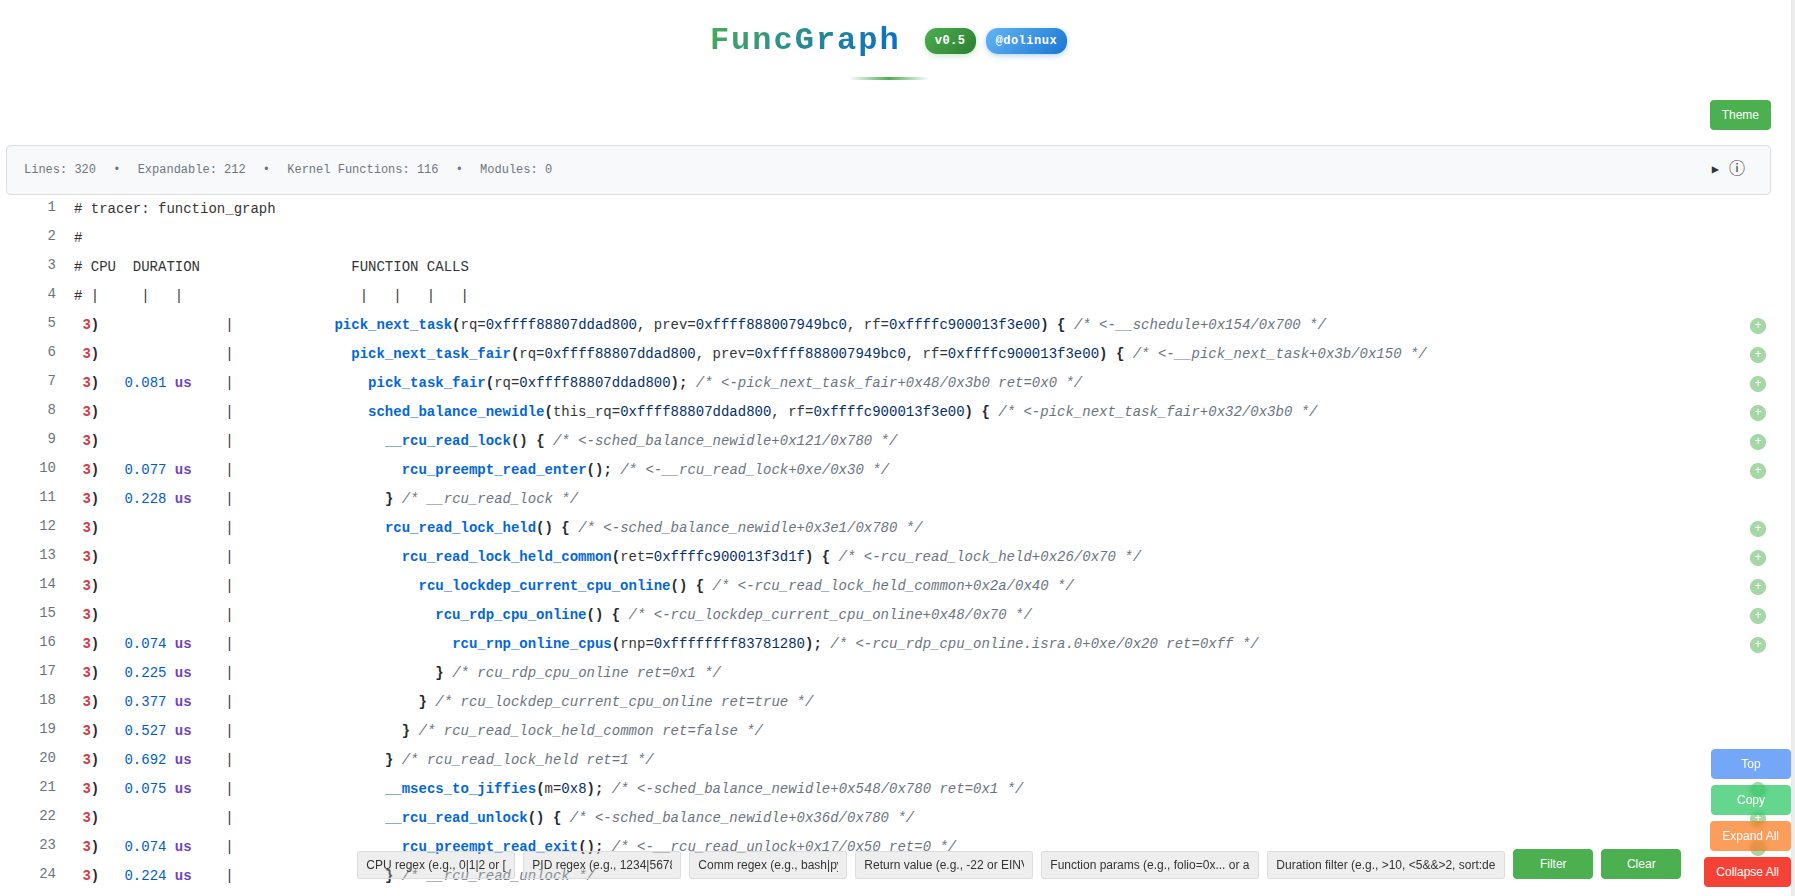
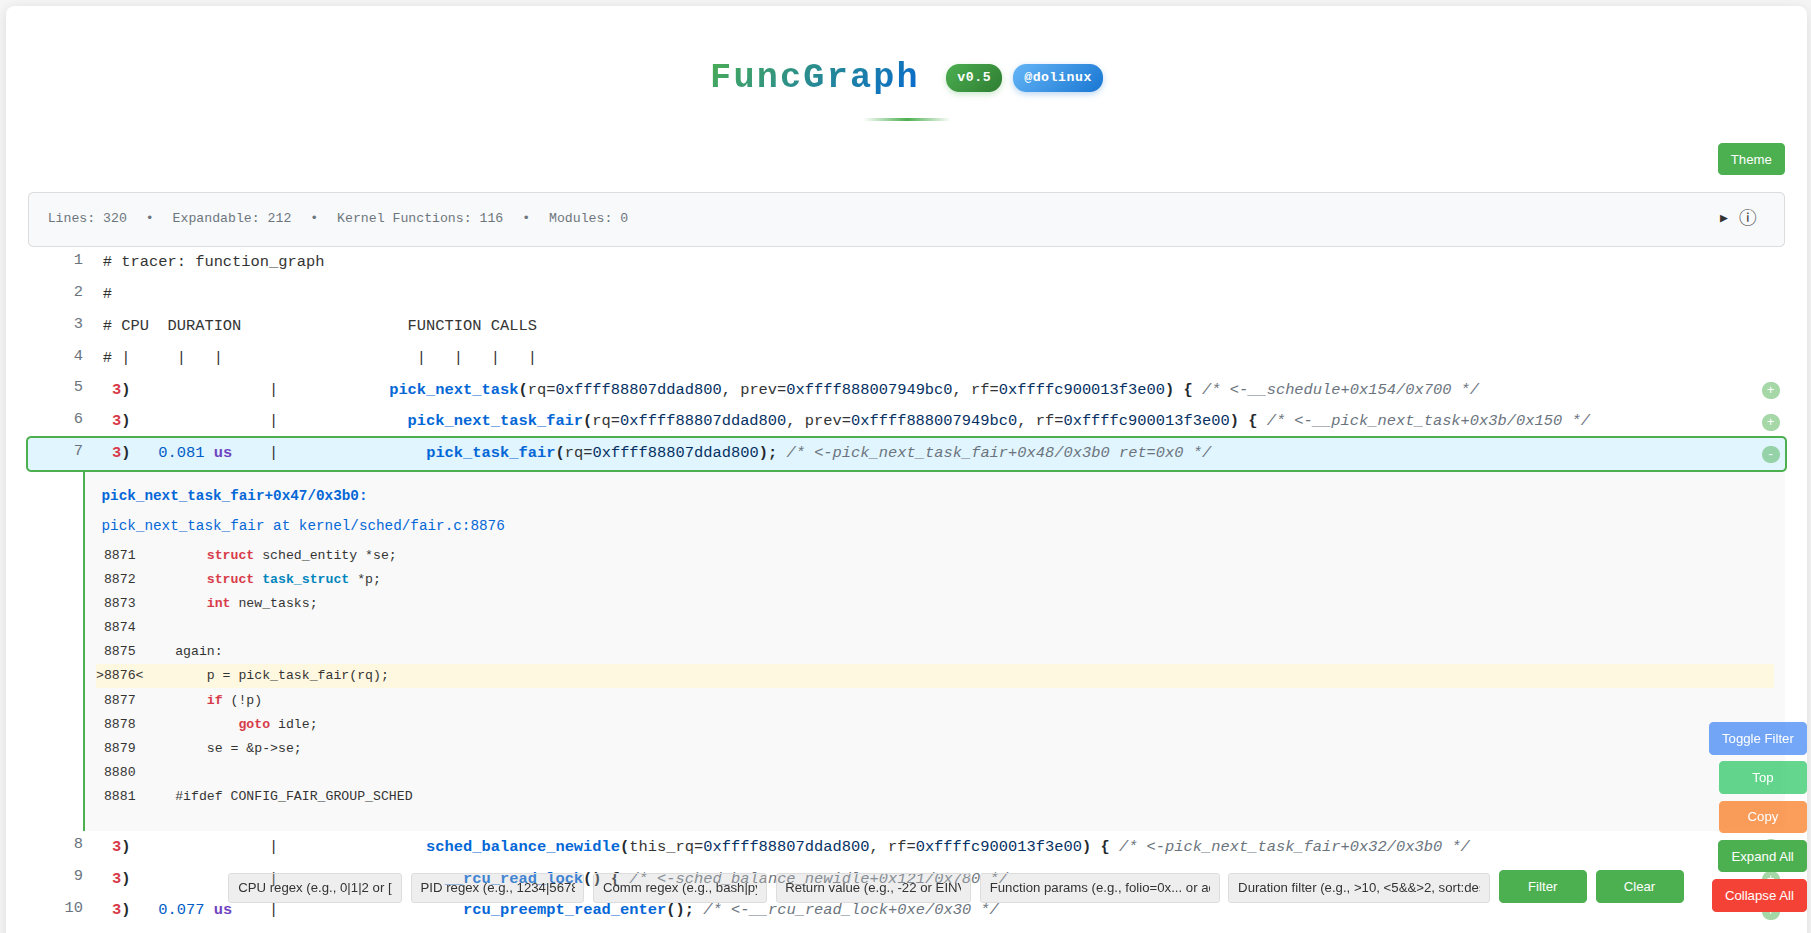
Update sample files

diff --git a/sample.html b/sample.html
@@ -1001,11 +1001,11 @@
                 <div class="info-item"><div class="info-label">OS:</div><div class="info-value">Linux 6.8.0-90-generic</div></div>
                 <div class="info-item"><div class="info-label">Hostname:</div><div class="info-value">pengdl-pc</div></div>
                 <div class="info-item"><div class="info-label">Processor:</div><div class="info-value">x86_64</div></div>
-                <div class="info-item"><div class="info-label">Generated At:</div><div class="info-value">2026-01-18 22:30:08</div></div>
+                <div class="info-item"><div class="info-label">Generated At:</div><div class="info-value">2026-01-29 23:37:10</div></div>
                 <div style="border-top: 1px solid var(--border-color); margin: 8px 0;"></div>
                 <div style="font-weight: 600; color: var(--text-color); margin-bottom: 8px; font-size: 11px;">Processing Stats</div>
                 <div class="info-item"><div class="info-label">Parse Time:</div><div class="info-value">0.01s</div></div>
-                <div class="info-item"><div class="info-label">Vmlinux Time:</div><div class="info-value">4.72s</div></div>
+                <div class="info-item"><div class="info-label">Vmlinux Time:</div><div class="info-value">4.94s</div></div>
                 <div class="info-item"><div class="info-label">Modules Time:</div><div class="info-value">0.00s</div></div>
                 <div class="info-item"><div class="info-label">Total Lines:</div><div class="info-value">320</div></div>
                 <div class="info-item"><div class="info-label">Expandable:</div><div class="info-value">212</div></div>
@@ -1033,7 +1033,7 @@
         <div class="controls">
             <!-- 过滤窗口占位符，稍后插入 -->
             
-            <div class="filter-box">
+            <div class="filter-box" id="filterBox">
                 
             <div class="filter-input-group">
                 <input type="text" id="filterCpu" placeholder="CPU regex (e.g., 0|1|2 or [0-2])" style="width: 140px;" data-suggestions="3" onkeypress="handleFilterKeypress(event)" onmouseenter="showHint(event, 'CPU过滤：支持正则表达式，如 0|1|2 或 [0-2]')" onmouseleave="hideHint()">
@@ -1062,6 +1062,7 @@
             </div>
             <div class="filter-hint" id="filterHint"></div>
             <div class="right-buttons">
+                <button class="control-btn" onclick="toggleFilterBox()">Toggle Filter</button>
                 <button class="control-btn" onclick="scrollToTop()">Top</button>
                 <button class="control-btn" onclick="copyVisibleContent(event)">Copy</button>
                 <button class="control-btn" onclick="expandAll()">Expand All</button>
@@ -1219,6 +1220,23 @@
             if (event.key === 'Enter') {
                 event.preventDefault();
                 applyFilter();
+            }
+        }
+
+        // 切换过滤器窗口的显示/隐藏
+        function toggleFilterBox() {
+            const filterBox = document.getElementById('filterBox');
+            if (filterBox) {
+                // 切换显示状态
+                if (filterBox.style.display === 'none') {
+                    filterBox.style.display = 'flex';
+                    // 保存状态到localStorage
+                    localStorage.setItem('filterBoxVisible', 'true');
+                } else {
+                    filterBox.style.display = 'none';
+                    // 保存状态到localStorage
+                    localStorage.setItem('filterBoxVisible', 'false');
+                }
             }
         }
 
@@ -2445,7 +2463,24 @@
                 }
             }
         });
-        
+
+        // 页面初始化：恢复filter窗口状态
+        document.addEventListener('DOMContentLoaded', function() {
+            // 从localStorage读取filter窗口的显示状态
+            const filterBoxVisible = localStorage.getItem('filterBoxVisible');
+            const filterBox = document.getElementById('filterBox');
+
+            if (filterBox) {
+                // 如果有保存的状态，按状态显示
+                if (filterBoxVisible === 'false') {
+                    filterBox.style.display = 'none';
+                } else {
+                    // 默认显示（包括filterBoxVisible为'true'或未设置的情况）
+                    filterBox.style.display = 'flex';
+                }
+            }
+        });
+
         // 添加键盘快捷键支持
         document.addEventListener('keydown', function(event) {
             console.log('🔑 Keydown event:', 'key=', event.key, 'keyCode=', event.keyCode, 'code=', event.code);
